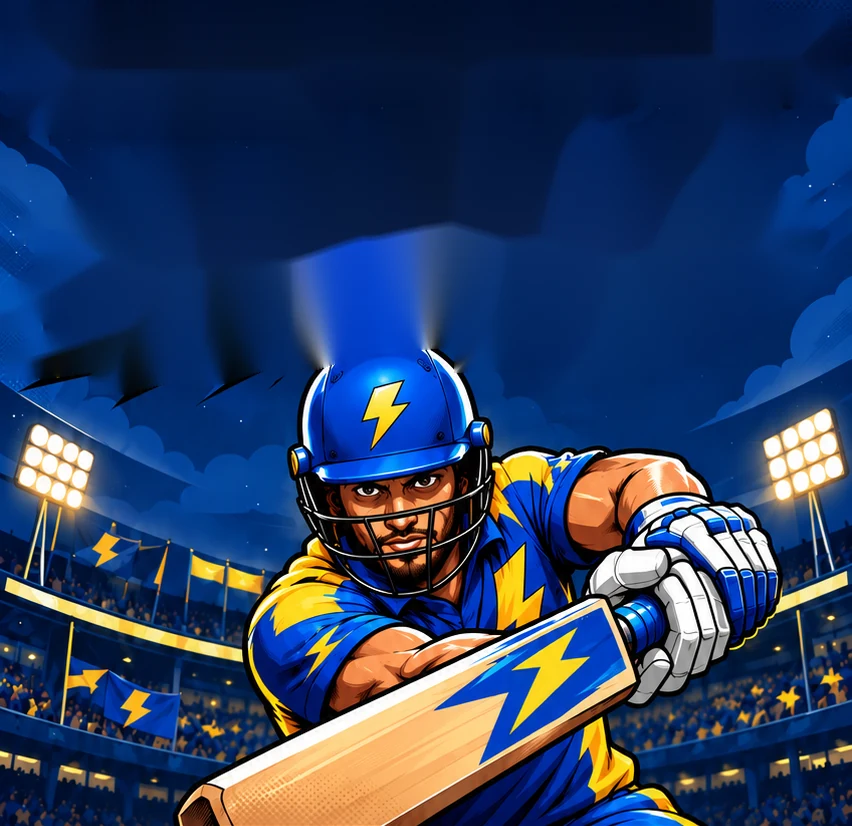
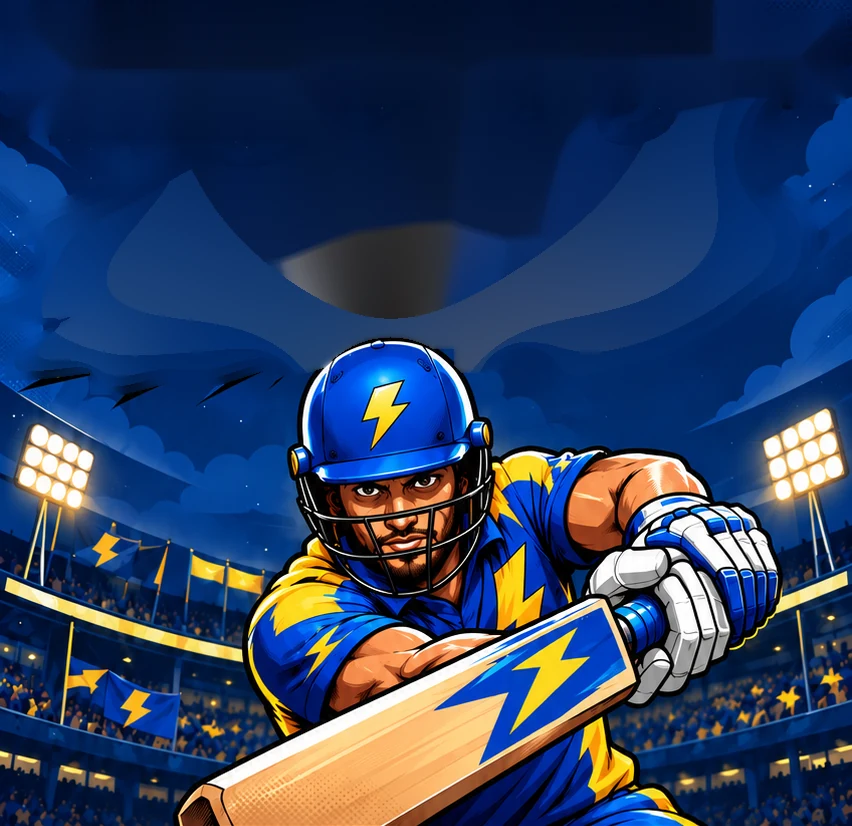
Hub: clean sky over the batter's helmet; mode-block small print stays inside its block
Claude-Session: https://claude.ai/code/session_01NK7tbrKg5PdA6fuyEUPXLd

Changed region(s): [[0.0, 0.2119, 0.8239, 0.4843], [0.7324, 0.1211, 0.885, 0.2724], [0.061, 0.2724, 0.0915, 0.3027]]

diff --git a/css/style.css b/css/style.css
@@ -316,16 +316,17 @@ button:focus-visible, a:focus-visible, input:focus-visible { outline: 3px solid 
 .hb-gear { width: 38px; align-self: flex-start; margin-top: 2px; }
 .hb-gear img { width: 38px; height: 38px; display: block; }
 .hubgrid { display: grid; grid-template-columns: 1fr 1fr; gap: 8px; position: relative; z-index: 1; }
-.tile { aspect-ratio: 560 / 312; display: block; padding: 0; border: 0; border-radius: 14px; font: inherit; position: relative; background: center / 100% 100% no-repeat; container-type: inline-size; }
+.tile { aspect-ratio: 560 / 312; display: block; padding: 0; border: 0; border-radius: 14px; font: inherit; position: relative; overflow: hidden; background: center / 100% 100% no-repeat; container-type: inline-size; }
 .tile-cup, .tile-daily { aspect-ratio: 560 / 294; }
-.tile small { position: absolute; left: 7.3%; right: 30%; top: 74%; font-family: var(--body); font-weight: 800; font-size: 9.5px; font-size: 5.6cqw; line-height: 1.12; text-align: left; white-space: pre-line; color: #14121a; overflow: hidden; }
+/* the small print sits on the block's bottom edge, so however it wraps it stays inside */
+.tile small { position: absolute; left: 7.3%; right: 30%; bottom: 6%; font-family: var(--body); font-weight: 800; font-size: 8.5px; font-size: 4.8cqw; line-height: 1.05; text-align: left; white-space: pre-line; color: #14121a; overflow: hidden; }
 .tile-quick { background-image: url(../img/menu/tile-quick.webp); }
 .tile-league { background-image: url(../img/menu/tile-league.webp); }
-.tile-league small { left: 6.3%; right: 32%; top: 64%; color: #fff; text-shadow: 0 1px 2px rgba(0, 0, 0, .5); }
+.tile-league small { left: 6.3%; right: 32%; bottom: 6%; color: #fff; text-shadow: 0 1px 2px rgba(0, 0, 0, .5); }
 .tile-cup { background-image: url(../img/menu/tile-cup.webp); }
-.tile-cup small { top: 76%; color: #fff; text-shadow: 0 1px 2px rgba(0, 0, 0, .35); }
+.tile-cup small { bottom: 4.5%; color: #fff; text-shadow: 0 1px 2px rgba(0, 0, 0, .35); }
 .tile-daily { background-image: url(../img/menu/tile-daily.webp); }
-.tile-daily small { left: 6.3%; top: 75%; right: 45%; }
+.tile-daily small { left: 6.3%; bottom: 4.5%; right: 45%; }
 .tile-daily.done { filter: saturate(.55); }
 .tile:active { transform: translate(1px, 2px); }
 .hub-pass { position: relative; display: block; width: 100%; padding: 0; border: 0; background: none; font: inherit; color: #fff; text-align: left; }

diff --git a/tools/build_menu_art.py b/tools/build_menu_art.py
@@ -17,6 +17,7 @@ from PIL import Image
 from scipy import ndimage as ndi
 
 OUT = 'img/menu/'
+HELMET = (390, 447, 96, 110)  # the batter's helmet in the mockup: centre x, y and radii
 
 
 def pieces(path):
@@ -83,9 +84,26 @@ def main():
     # on top of this spot (LOGO_SPOT in the stylesheet) so the smear never shows
     lh = np.zeros_like(hole)
     lh[y:y + a.shape[0], x:x + a.shape[1]] = a
-    hole |= cv2.dilate(lh, np.ones((3, 3), np.uint8), iterations=14)
+    # but never into the batter's helmet, which the old logo only came close to
+    yy, xx = np.mgrid[:hole.shape[0], :hole.shape[1]]
+    r = ((xx - HELMET[0]) / HELMET[2]) ** 2 + ((yy - HELMET[1]) / HELMET[3]) ** 2
+    lh = cv2.dilate(lh, np.ones((3, 3), np.uint8), iterations=14) & (r > 1)
+    hole = (hole & (r > 1)) | lh
     print('logo spot in the background: x', x, 'y', y, 'width', w)
     bg = cv2.inpaint(m, hole * 255, 9, cv2.INPAINT_TELEA)
+    # the logo's hole is sky: fill it with the blurred sky round it (not the helmet's outline,
+    # which an inpaint drags up into streaks), the finest blur that reaches each pixel
+    known = ((hole == 0) & (r > 1.25 ** 2)).astype(np.float32)
+    fill = bg.astype(np.float32)
+    left = lh.astype(bool)
+    for sigma in (8, 16, 32, 64, 128):
+        wsum = cv2.GaussianBlur(known, (0, 0), sigma)
+        acc = cv2.GaussianBlur(m.astype(np.float32) * known[..., None], (0, 0), sigma)
+        ok = left & (wsum > 0.15)
+        fill[ok] = acc[ok] / wsum[ok][:, None]
+        left &= ~ok
+    soft = cv2.GaussianBlur(lh.astype(np.float32), (0, 0), 3)[..., None]
+    bg = np.clip(fill * soft + bg.astype(np.float32) * (1 - soft), 0, 255).astype(np.uint8)
     save(Image.fromarray(bg), 'hero', q=88)
 
     ps = pieces(pas)
